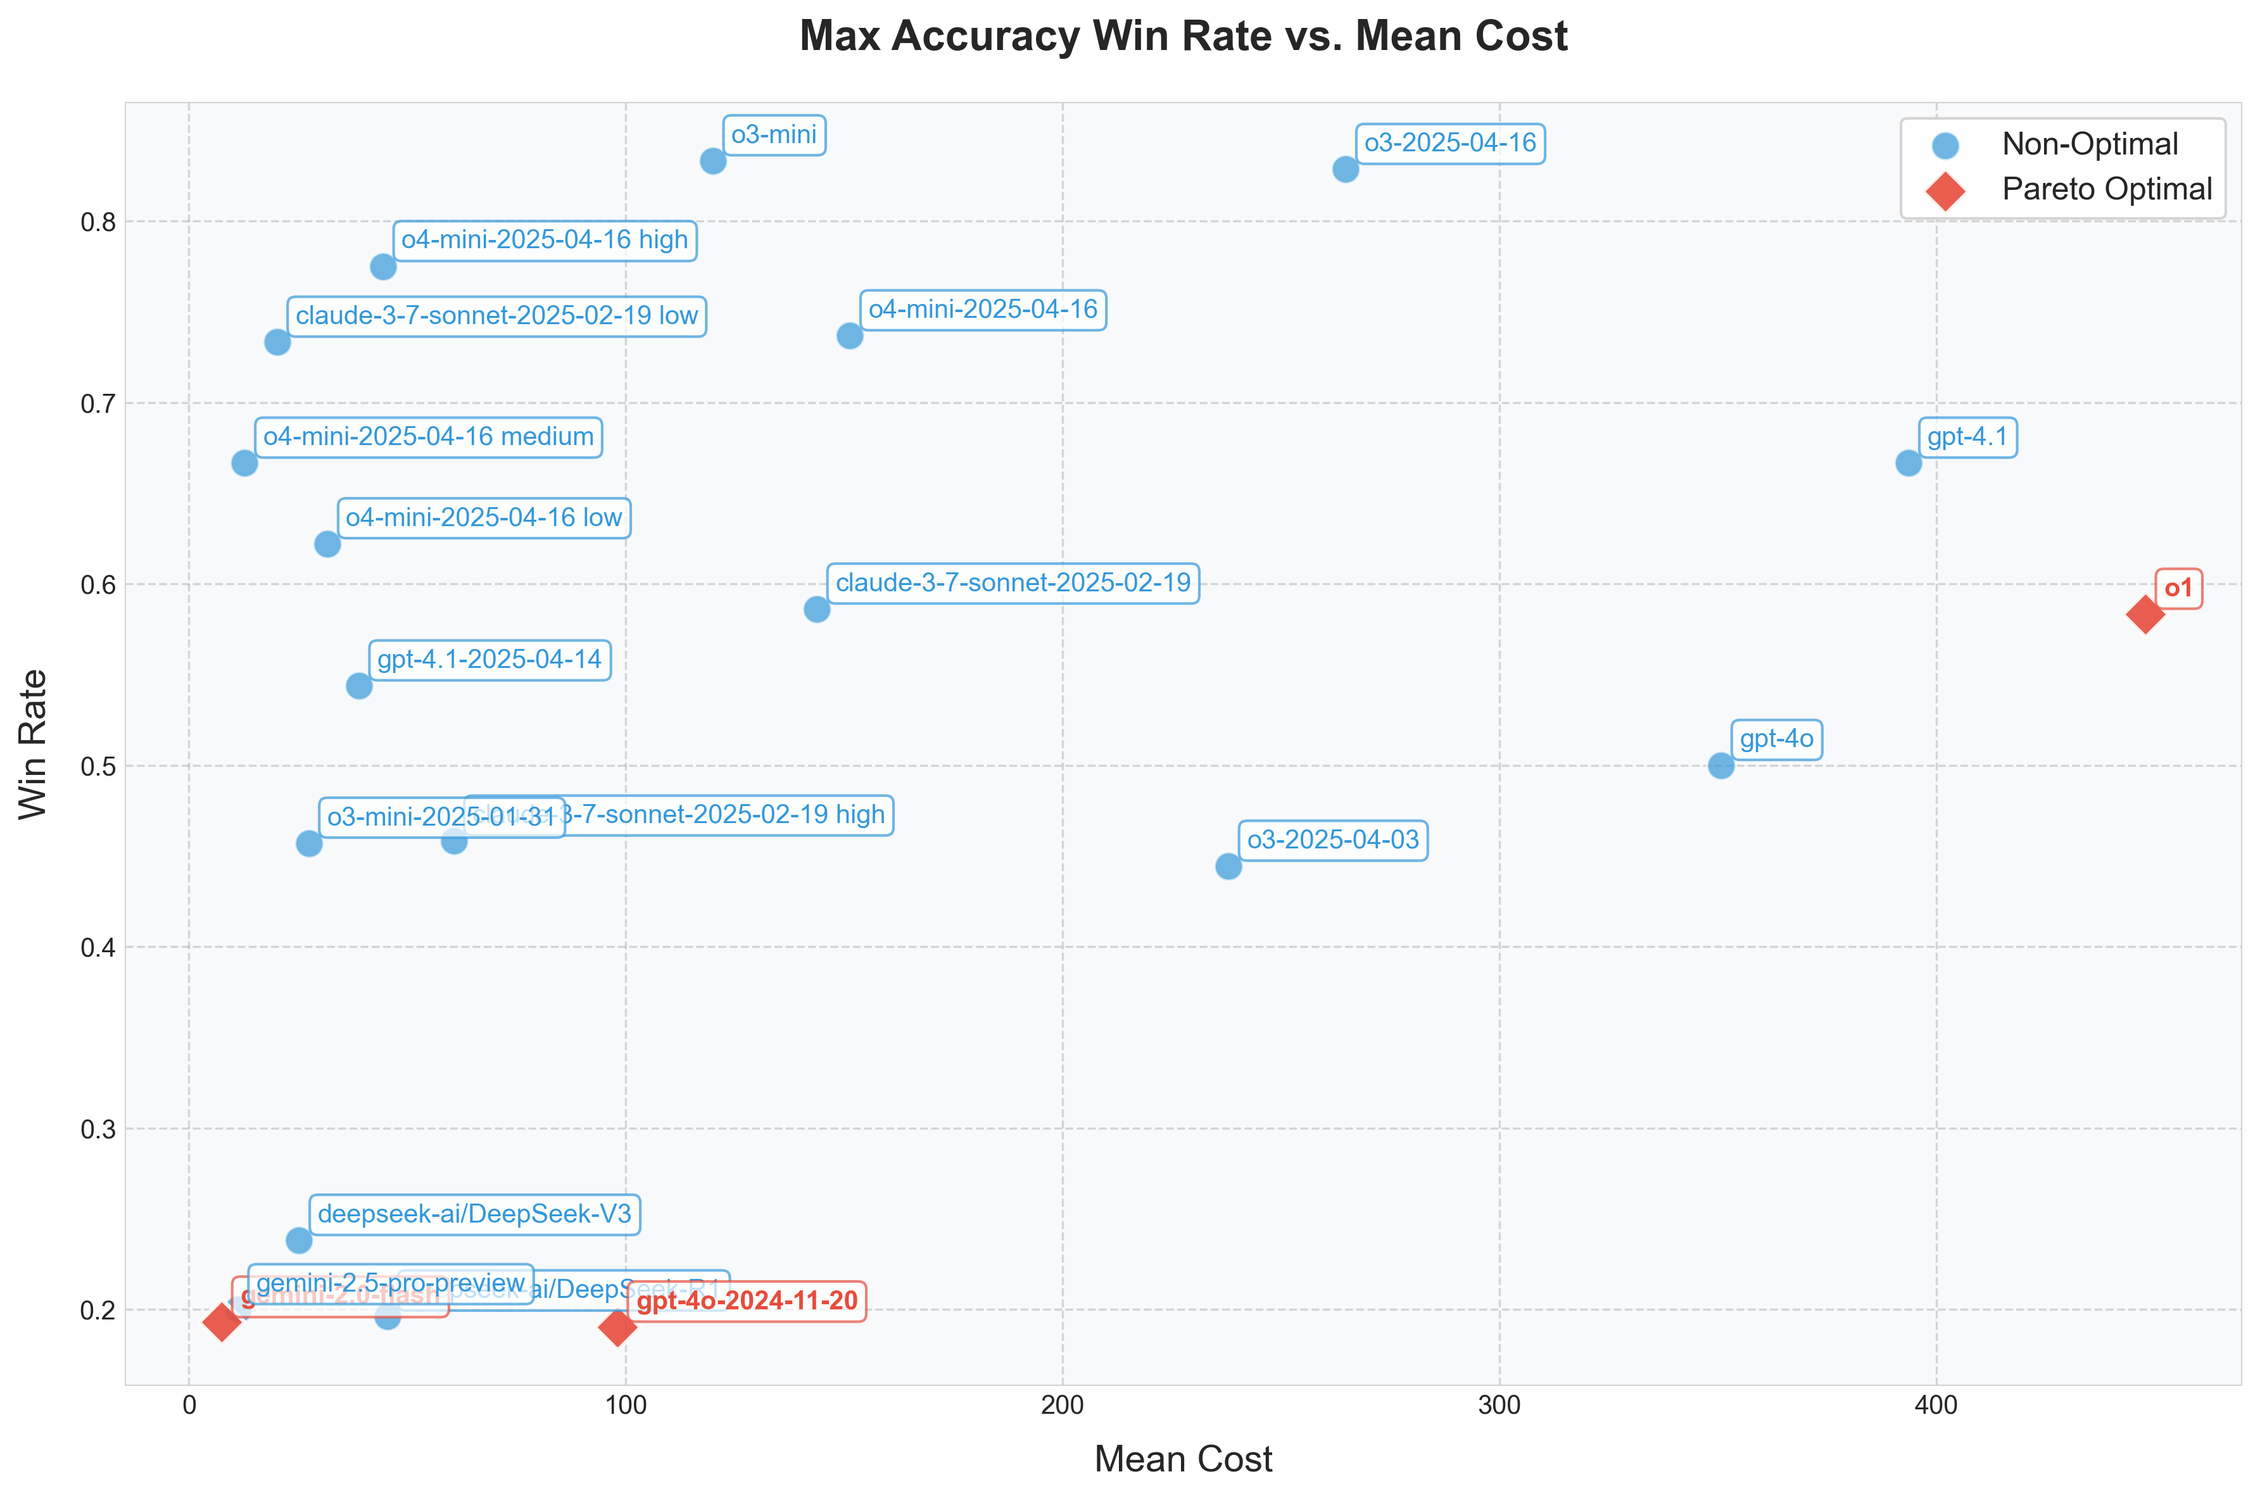
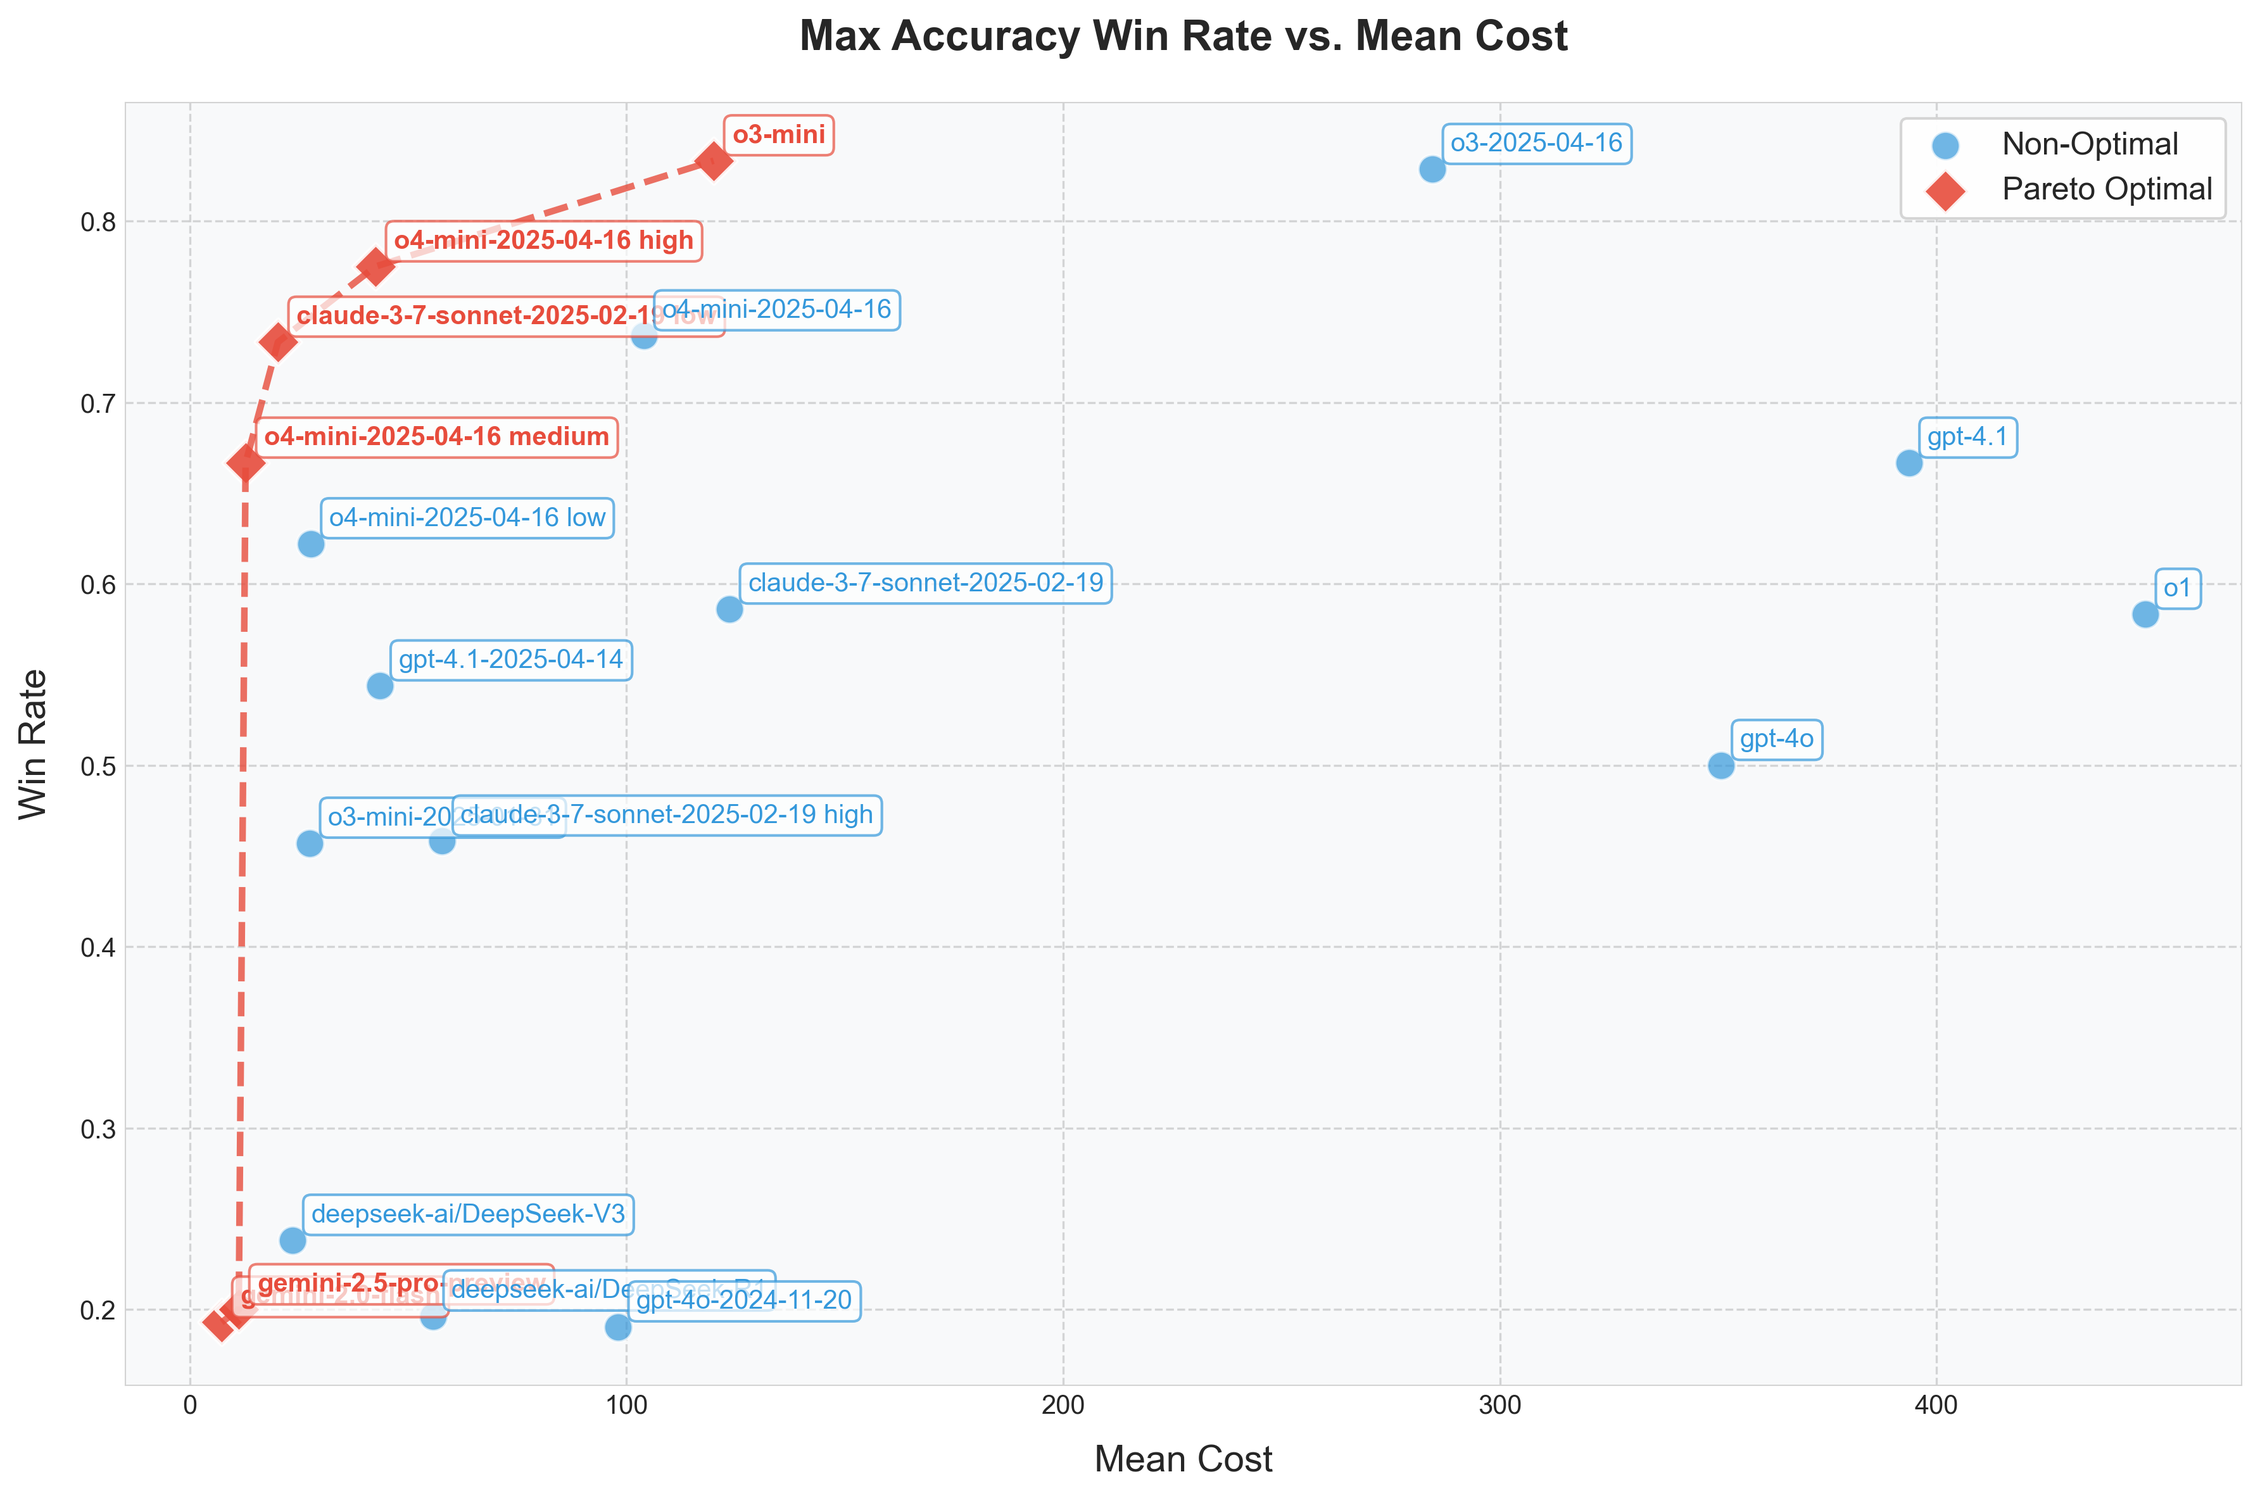
updating pareto optimal

diff --git a/convex_hull.py b/convex_hull.py
@@ -63,12 +63,41 @@ def identify_pareto_optimal(df, x_col, y_col, minimize_x=True, maximize_y=True):
         if (maximize_y and current_point[y_col] > last_pareto[y_col]) or \
            (not maximize_y and current_point[y_col] < last_pareto[y_col]):
             pareto_frontier.append(current_point)
+    # print("pareto frontier points", pareto_frontier)
+    pareto_df = pd.DataFrame(pareto_frontier)
+    df['pareto_optimal'] = df.index.isin(pareto_df.index)
+    non_optimal = df[~df['pareto_optimal']]
+    optimal = df[df['pareto_optimal']]
+    optimal_points = optimal.sort_values(x_col)
+    # print("optimal points", optimal_points)
+
+    # Get the convex hull if there are enough points
+    if len(optimal_points) >= 3:
+        # Get coordinates for convex hull
+        points = np.column_stack([optimal_points[x_col].values, optimal_points[y_col].values])
+        hull = ConvexHull(points)
+            
+        # Get hull vertices in order
+        hull_vertices = []
+        for vertex in hull.vertices:
+            hull_vertices.append(points[vertex])
+        hull_vertices = np.array(hull_vertices)
+        hull_set = set(map(tuple, hull_vertices))
+        df['pareto_optimal'] = df.apply(lambda row: (row[x_col], row[y_col]) in hull_set, axis=1)
+    else:
+        df['pareto_optimal'] = df.index.isin(pareto_df.index)
     
     # Create a DataFrame from the Pareto frontier
-    pareto_df = pd.DataFrame(pareto_frontier)
+    # pareto_df = pd.DataFrame(pareto_frontier)
     
+    #  print("hull vertices", hull_vertices)
+
     # Add a flag to the original DataFrame indicating Pareto optimal points
-    df['pareto_optimal'] = df.index.isin(pareto_df.index)
+    # df['pareto_optimal'] = df.index.isin(pareto_df.index)
+
+    # If the point is in the hull vertices, set the flag to optimal
+
+    print(df.head())
     
     return df
 
@@ -153,28 +182,28 @@ def plot_pareto_frontier(df, x_col, y_col, title, x_label, y_label, filename,
     )
     
     # Plot convex hull if there are enough points
-    if len(optimal_points) >= 3:
-        # Get coordinates for convex hull
-        points = np.column_stack([optimal_points[x_col].values, optimal_points[y_col].values])
-        hull = ConvexHull(points)
+    # if len(optimal_points) >= 3:
+    #     # Get coordinates for convex hull
+    #     points = np.column_stack([optimal_points[x_col].values, optimal_points[y_col].values])
+    #     hull = ConvexHull(points)
         
-        # Get hull vertices in order
-        hull_vertices = []
-        for vertex in hull.vertices:
-            hull_vertices.append(points[vertex])
-        hull_vertices.append(hull_vertices[0])  # Close the loop
-        hull_vertices = np.array(hull_vertices)
+    #     # Get hull vertices in order
+    #     hull_vertices = []
+    #     for vertex in hull.vertices:
+    #         hull_vertices.append(points[vertex])
+    #     hull_vertices.append(hull_vertices[0])  # Close the loop
+    #     hull_vertices = np.array(hull_vertices)
         
-        # Plot the convex hull
-        ax.plot(
-            hull_vertices[:, 0],
-            hull_vertices[:, 1],
-            color='#2ecc71',  # Green color for convex hull
-            linestyle='-',
-            linewidth=2,
-            alpha=0.7,
-            label='Convex Hull'
-        )
+        # # Plot the convex hull
+        # ax.plot(
+        #     hull_vertices[:, 0],
+        #     hull_vertices[:, 1],
+        #     color='#2ecc71',  # Green color for convex hull
+        #     linestyle='-',
+        #     linewidth=2,
+        #     alpha=0.7,
+        #     label='Convex Hull'
+        # )
     
     # Calculate AUC
     # auc = calculate_auc(optimal_points[x_col].values, optimal_points[y_col].values)
@@ -360,28 +389,27 @@ def grid_pareto_frontier_by_benchmark(tasks, merged_df, x_col, y_col, x_label, y
         )
         
         # Plot convex hull if there are enough points
-        if len(optimal_points) >= 3:
-            # Get coordinates for convex hull
-            points = np.column_stack([optimal_points[x_col].values, optimal_points[y_col].values])
-            hull = ConvexHull(points)
+        # if len(optimal_points) >= 3:
+        #     # Get coordinates for convex hull
+        #     points = np.column_stack([optimal_points[x_col].values, optimal_points[y_col].values])
+        #     hull = ConvexHull(points)
             
-            # Get hull vertices in order
-            hull_vertices = []
-            for vertex in hull.vertices:
-                hull_vertices.append(points[vertex])
-            hull_vertices.append(hull_vertices[0])  # Close the loop
-            hull_vertices = np.array(hull_vertices)
+        #     # Get hull vertices in order
+        #     hull_vertices = []
+        #     for vertex in hull.vertices:
+        #         hull_vertices.append(points[vertex])
+        #     hull_vertices = np.array(hull_vertices)
             
-            # Plot the convex hull
-            ax.plot(
-                hull_vertices[:, 0],
-                hull_vertices[:, 1],
-                color='#2ecc71',  # Green color for convex hull
-                linestyle='-',
-                linewidth=1.5,
-                alpha=0.7,
-                label='Convex Hull'
-            )
+            # # Plot the convex hull
+            # ax.plot(
+            #     hull_vertices[:, 0],
+            #     hull_vertices[:, 1],
+            #     color='#2ecc71',  # Green color for convex hull
+            #     linestyle='-',
+            #     linewidth=1.5,
+            #     alpha=0.7,
+            #     label='Convex Hull'
+            # )
         
         # Add model/agent names as labels with better styling
         for _, row in pareto_df.iterrows():
@@ -678,4 +706,33 @@ def cost_accuracy():
     grid_pareto_frontier_by_benchmark(tasks, df_m, 'total_cost', 'accuracy', 'Total Cost', 'Accuracy', 4, 'model_cost_accuracy.png')
     # save_pareto_distances(df_m, tasks, 'total_cost', 'accuracy')
 
-cost_accuracy()
+def latency_accuracy():
+    model_latency = pd.read_csv('model_latency.csv')
+    model_accuracy = pd.read_csv('model_accuracy.csv')
+    df_m = model_accuracy.merge(model_latency, on=['model_name_short', 'benchmark_name'], how='left')
+    tasks = df_m['benchmark_name'].unique()
+    grid_pareto_frontier_by_benchmark(tasks, df_m, 'latency', 'accuracy', 'Mean Latency', 'Accuracy', 4, 'model_latency_accuracy.png')
+
+def cost_win_rate():
+    # with model win rates and data/model_mean_cost, plot using plot_pareto_fronteir function
+    model_mean_costs = pd.read_csv('data/model_mean_cost.csv')
+    model_win_rates_max = pd.read_csv('model_win_rates_max.csv')
+    model_win_rates_pareto = pd.read_csv('model_win_rates_pareto.csv')
+
+    # plot pareto frontier for win rate calculation using max accuracy
+    df_m = pd.merge(model_mean_costs, model_win_rates_max, on='model_name_short', how='inner')
+    cols = ['model_name_short', 'mean_cost', 'win_rate_mean', 'overall_win_rate']
+    df_m = df_m[cols].copy()
+    plot_pareto_frontier(df_m, 'mean_cost', 'overall_win_rate', 'Max Accuracy Win Rate vs. Mean Cost', 'Mean Cost', 'Win Rate', 'new_plots/cost_win_rate_max.png')
+
+    # plot pareto frontier for win rate calculation using distance from convex hull
+    df_m = pd.merge(model_mean_costs, model_win_rates_pareto, on='model_name_short', how='inner')
+    cols = ['model_name_short', 'mean_cost', 'win_rate_mean', 'overall_win_rate']
+    df_m = df_m[cols].copy()
+    plot_pareto_frontier(df_m, 'mean_cost', 'overall_win_rate', 'Distance from Convex Hull Win Rate vs. Mean Cost', 'Mean Cost', 'Win Rate', 'new_plots/cost_win_rate_pareto.png')
+
+
+
+# cost_accuracy()
+# latency_accuracy()
+cost_win_rate()

diff --git a/visualizations.py b/visualizations.py
@@ -73,8 +73,16 @@ def model_win_rate_bar(model_win_rates, calc_type):
         model_win_rates: DataFrame with win rates for each model
     """
     plt.figure(figsize=(12, 6))
+
+    # Remove three models from win rate analysis
+    models_to_remove = ['2.5-pro', 'o1', 'o3-mini']
+    pattern = '|'.join(models_to_remove)
+    model_win_rates_cleaned = model_win_rates[~model_win_rates['model_name_short'].str.contains(pattern, case=False, na=False)]
+
     # Sort by win rate
-    sorted_df = model_win_rates.sort_values('overall_win_rate', ascending=False)
+    sorted_df = model_win_rates_cleaned.sort_values('overall_win_rate', ascending=False)
+
+
     # Create bar plot
     ax = sns.barplot(x='model_name_short', y='overall_win_rate', data=sorted_df, hue='model_name_short', palette='magma')
     
@@ -132,7 +140,7 @@ def create_heatmaps(df, agent_scaffold, metric, title, x_label, y_label, legend_
     ax = sns.heatmap(
         data=main_data,
         annot=True,
-        annot_kws={"fontsize":8},
+        annot_kws={"fontsize":7},
         fmt='.2f',
         cmap=cmap,
         linewidths=0.5,
@@ -152,7 +160,7 @@ def create_heatmaps(df, agent_scaffold, metric, title, x_label, y_label, legend_
     plt.yticks(fontsize=10)
     
     # Adjust layout
-    plt.savefig(f'visualizations/new_plots/{agent_scaffold}_{metric}_heatmap.png', bbox_inches='tight', dpi=300)
+    plt.savefig(f'visualizations/new_plots/heatmaps/{agent_scaffold}_{metric}_heatmap.png', bbox_inches='tight', dpi=300)
 
 def ensure_list(x):
     if pd.isna(x):
@@ -176,13 +184,6 @@ def ensure_list(x):
 # #     tasks = df_m['benchmark_name'].unique()
 # #     grid_pareto_frontier_by_benchmark(tasks, df_m, 'total_cost', 'win_rate_mean', 'Total Cost', 'Mean Win Rate', 4, 'cost_win_rate.png')
 
-# def cost_accuracy():
-#     model_costs = pd.read_csv('model_total_usage.csv')
-#     model_accuracy = pd.read_csv('model_accuracy.csv')
-#     df_m = model_accuracy.merge(model_costs, on=['model_name_short', 'benchmark_name'], how='left')
-#     tasks = df_m['benchmark_name'].unique()
-#     grid_pareto_frontier_by_benchmark(tasks, df_m, 'total_cost', 'accuracy', 'Total Cost', 'Accuracy', 4, 'model_cost_accuracy.png')
-
 # def latency_accuracy():
 #     model_latency = pd.read_csv('model_latency.csv')
 #     model_accuracy = pd.read_csv('model_accuracy.csv')
@@ -205,18 +206,17 @@ def ensure_list(x):
 #     df_m = df_m[cols].copy()
 #     plot_pareto_frontier(df_m, 'mean_latency', 'overall_win_rate', 'Pareto Frontier: Win Rate vs. Mean Latency', 'Mean Latency', 'Win Rate', 'new_plots/latency_win_rate.png')
 
-# model_win_rate_bar(model_win_rates_max, 'max')
-# model_win_rate_bar(model_win_rates_pareto, 'pareto')
-# model_accuracy_full()
-# scaffold_accuracy()
-
 cleaned_dataset = pd.read_csv('cleaned_all_metrics.csv')
 cleaned_dataset['latencies_per_task'] = cleaned_dataset['latencies_per_task'].apply(ensure_list)
 cleaned_dataset['mean_latency'] = cleaned_dataset['latencies_per_task'].apply(lambda x: np.mean(x) if x else np.nan)
 
-create_heatmaps(cleaned_dataset, 'generalist', 'total_cost', 'Total Costs of Generalist Agents', 'Model Name', 'Benchmark Name', 'Total Cost')
-create_heatmaps(cleaned_dataset, 'generalist', 'accuracy', 'Accuracy of Generalist Agents', 'Model Name', 'Benchmark Name', 'Accuracy')
-create_heatmaps(cleaned_dataset, 'task_specific', 'accuracy', 'Accuracy of Task Specific Agents', 'Model Name', 'Benchmark Name', 'Accuracy')
-create_heatmaps(cleaned_dataset, 'task_specific', 'total_cost', 'Total Costs of Task Specific Agents', 'Model Name', 'Benchmark Name', 'Total Cost')
-create_heatmaps(cleaned_dataset, 'generalist', 'mean_latency', 'Mean Latencies of Generalist Agents', 'Model Name', 'Benchmark Name', 'Mean Latency')
-create_heatmaps(cleaned_dataset, 'task_specific', 'mean_latency', 'Mean Latencies of Task Specific Agents', 'Model Name', 'Benchmark Name', 'Mean Latency')
+
+model_win_rate_bar(model_win_rates_max, 'max')
+model_win_rate_bar(model_win_rates_pareto, 'pareto')
+
+# create_heatmaps(cleaned_dataset, 'generalist', 'total_cost', 'Total Costs of Generalist Agents', 'Model Name', 'Benchmark Name', 'Total Cost')
+# create_heatmaps(cleaned_dataset, 'generalist', 'accuracy', 'Accuracy of Generalist Agents', 'Model Name', 'Benchmark Name', 'Accuracy')
+# create_heatmaps(cleaned_dataset, 'task_specific', 'accuracy', 'Accuracy of Task Specific Agents', 'Model Name', 'Benchmark Name', 'Accuracy')
+# create_heatmaps(cleaned_dataset, 'task_specific', 'total_cost', 'Total Costs of Task Specific Agents', 'Model Name', 'Benchmark Name', 'Total Cost')
+# create_heatmaps(cleaned_dataset, 'generalist', 'mean_latency', 'Mean Latencies of Generalist Agents', 'Model Name', 'Benchmark Name', 'Mean Latency')
+# create_heatmaps(cleaned_dataset, 'task_specific', 'mean_latency', 'Mean Latencies of Task Specific Agents', 'Model Name', 'Benchmark Name', 'Mean Latency')

diff --git a/token_usage.py b/token_usage.py
@@ -7,7 +7,7 @@ from src.dataloaders.abstract import DataCombiner
 def main():
     # Load data for all tasks you want to analyze
     # tasks = ['taubench_retail', 'usaco', 'test','taubench', 'swebench', 'react', 'planexec', 'ipfuncall', 'inspect', 'gaia', 'fullcode', 'cybench', 'agentharm_', 'agentharm_benign']  # Add your task names here
-    tasks = ['taubench_airline', 'colbench_backend_programming', 'colbench_frontend_design', 'gaia', 'scicode', 'scienceagentbench', 'swebench_verified_mini', 'usaco']
+    tasks = ['taubench_airline', 'colbench_backend_programming', 'colbench_frontend_design', 'gaia', 'scicode', 'scienceagentbench', 'swebench_verified_mini', 'usaco', 'corebench_hard', 'assistantbench']
     cols = ['model_name_short', 'total_cost', 'benchmark_name', 'agent_name_short']
     all_data = []
     all_data = pd.DataFrame()

diff --git a/generate_cleaned_dataset.py b/generate_cleaned_dataset.py
@@ -13,4 +13,8 @@ for file in files:
     all_data.append(data.return_row())
 
 all_data = pd.DataFrame(all_data)
-all_data.to_csv('cleaned_all_metrics.csv', index=False)
+models_to_remove = ['2.5-pro', 'o1', 'o3-mini']
+pattern = '|'.join(models_to_remove)
+all_data_filtered = all_data[~all_data['model_name_short'].str.contains(pattern, case=False, na=False)]
+
+all_data_filtered.to_csv('cleaned_all_metrics.csv', index=False)
